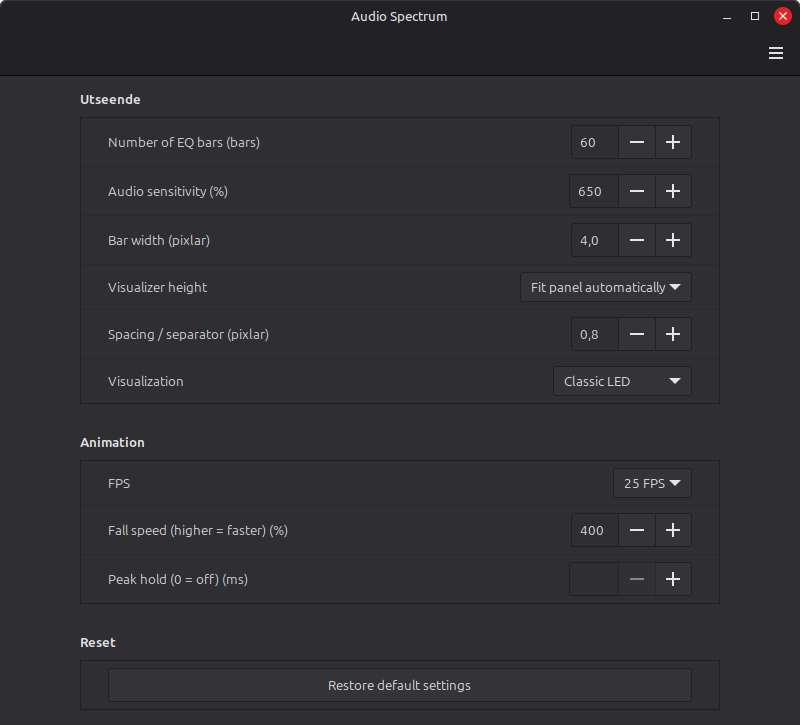
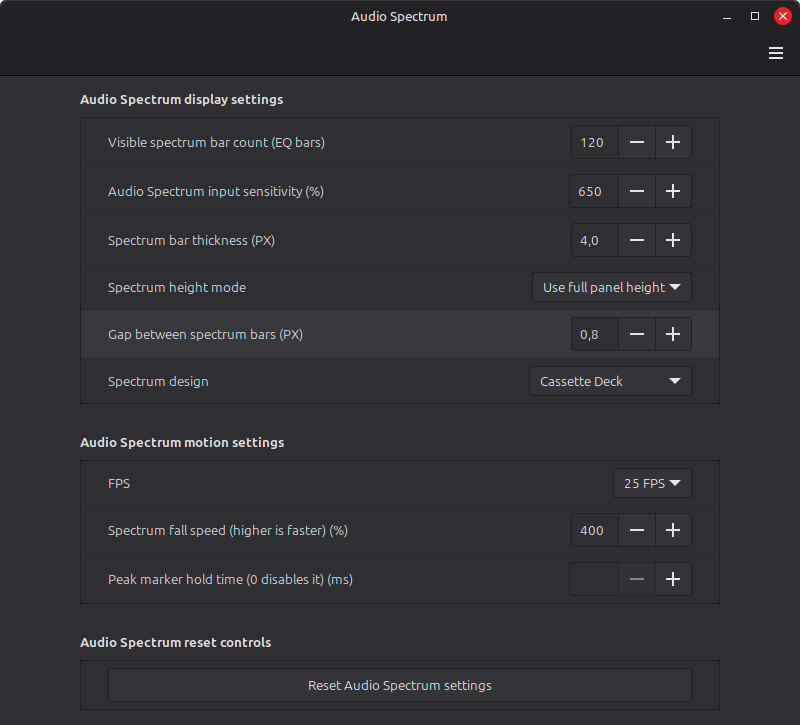
Update screenshots for Audio Spectrum 1.2

diff --git a/README.md b/README.md
@@ -40,17 +40,25 @@ Audio Spectrum displays the audio currently playing on your system directly in t
 
 ## Screenshots
 
-### 80s Car Stereo
+### Amber Analyzer
 
-![80s Car Stereo](screenshots/80s-car-stereo.png)
+![Amber Analyzer](screenshots/amber-analyzer.png)
 
-### Classic LED
+### Cassette Deck
 
-![Classic LED](screenshots/classic-led.png)
+![Cassette Deck](screenshots/cassette-deck.png)
 
-### 1980s Digital
+### LED Tower
 
-![1980s Digital](screenshots/1980s-digital.png)
+![LED Tower](screenshots/led-tower.png)
+
+### Neon Line
+
+![Neon Line](screenshots/neon-line.png)
+
+### Pixel Plasma
+
+![Pixel Plasma](screenshots/pixel-plasma.png)
 
 ## Requirements
 
